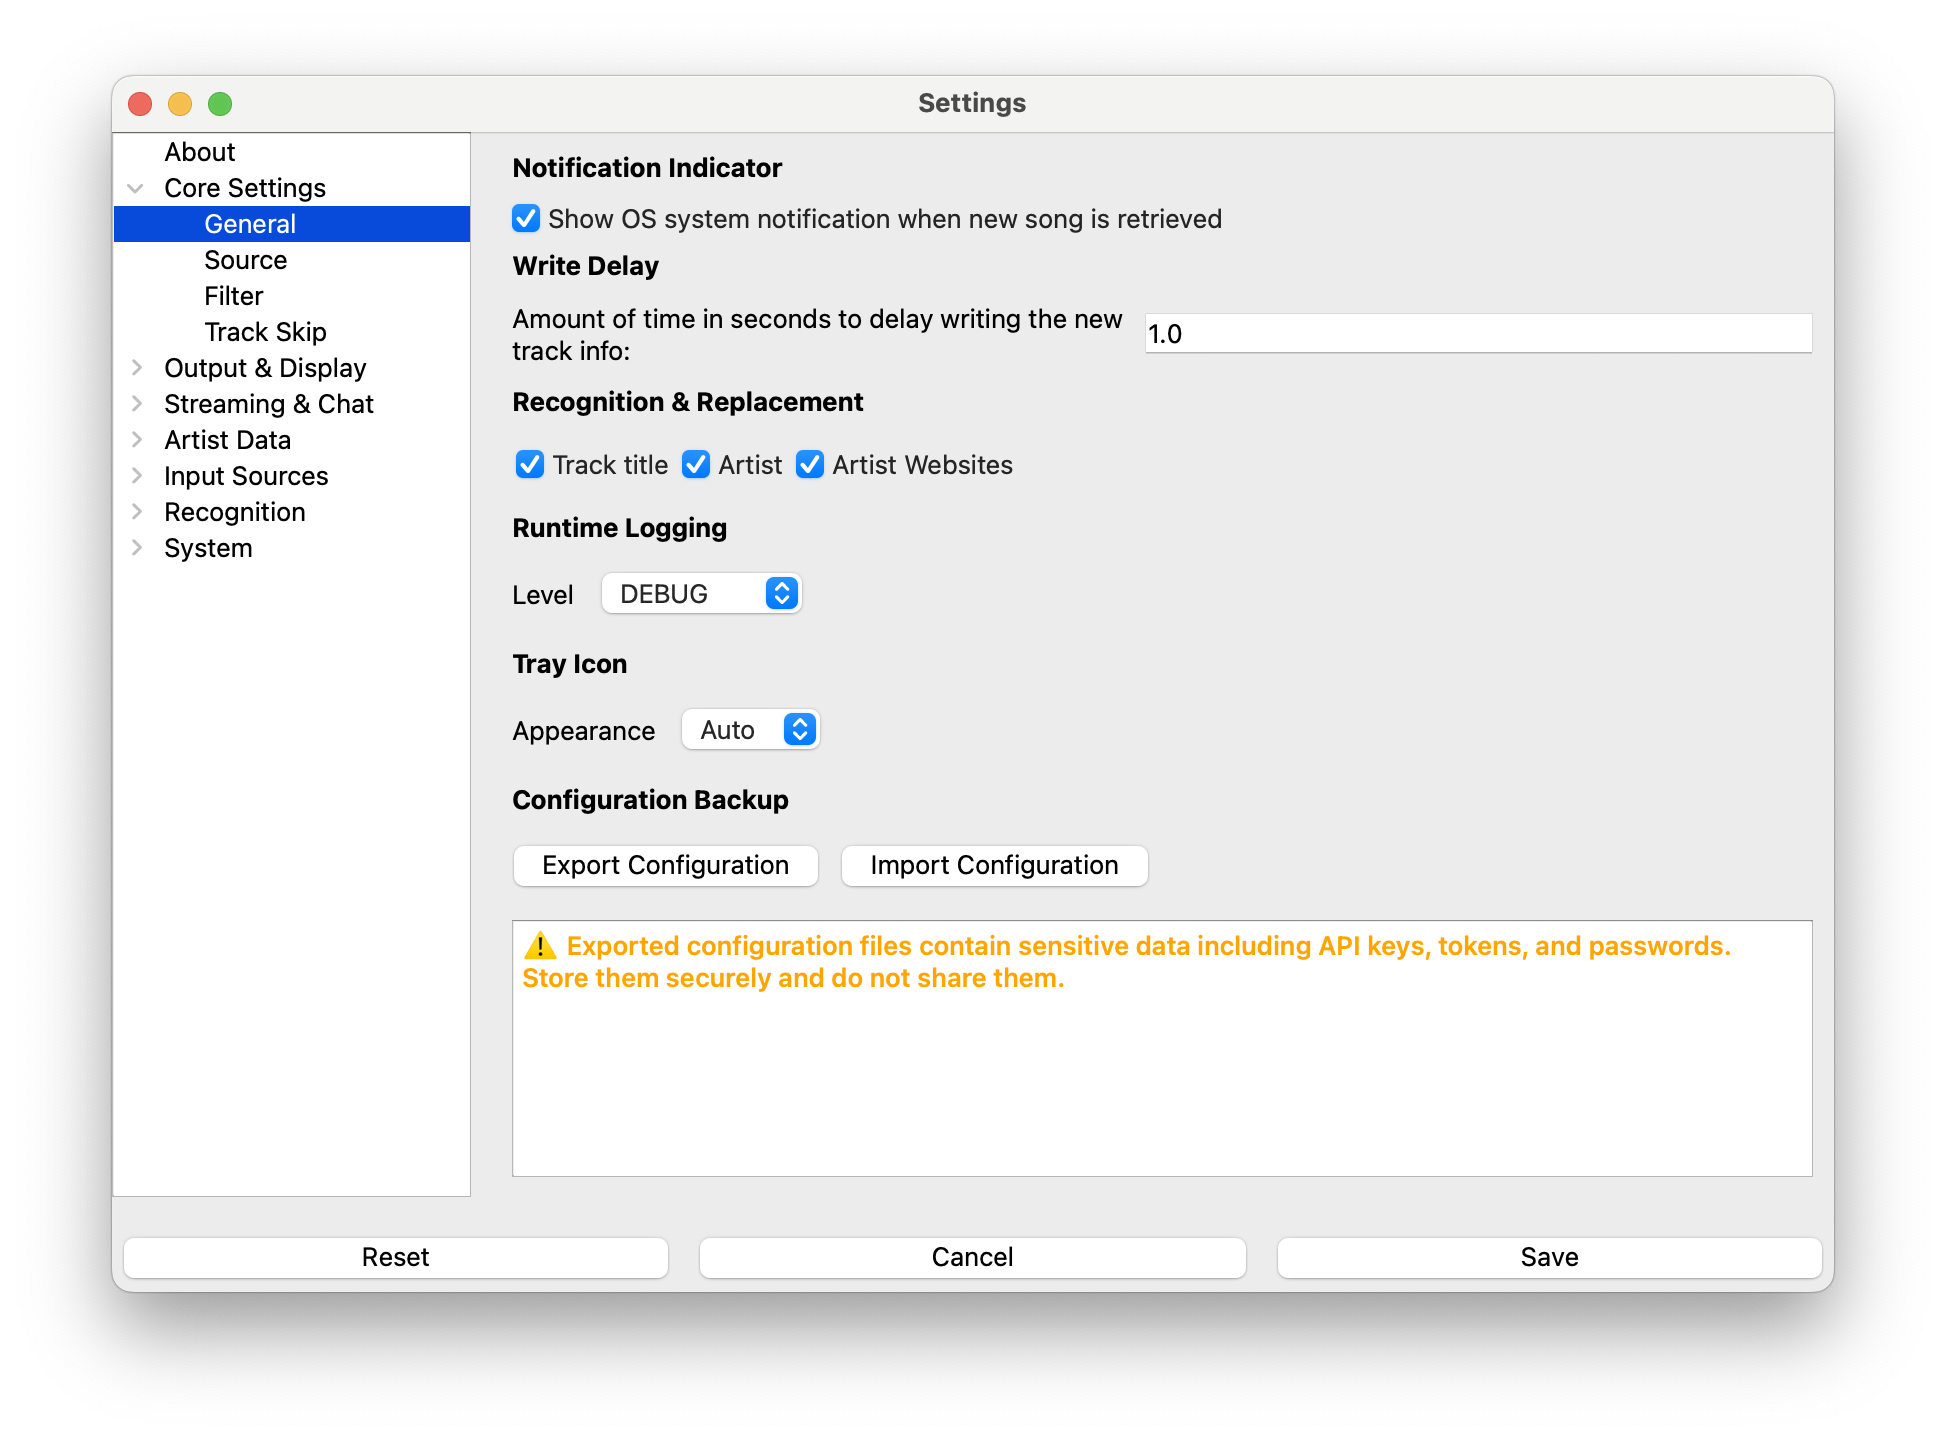
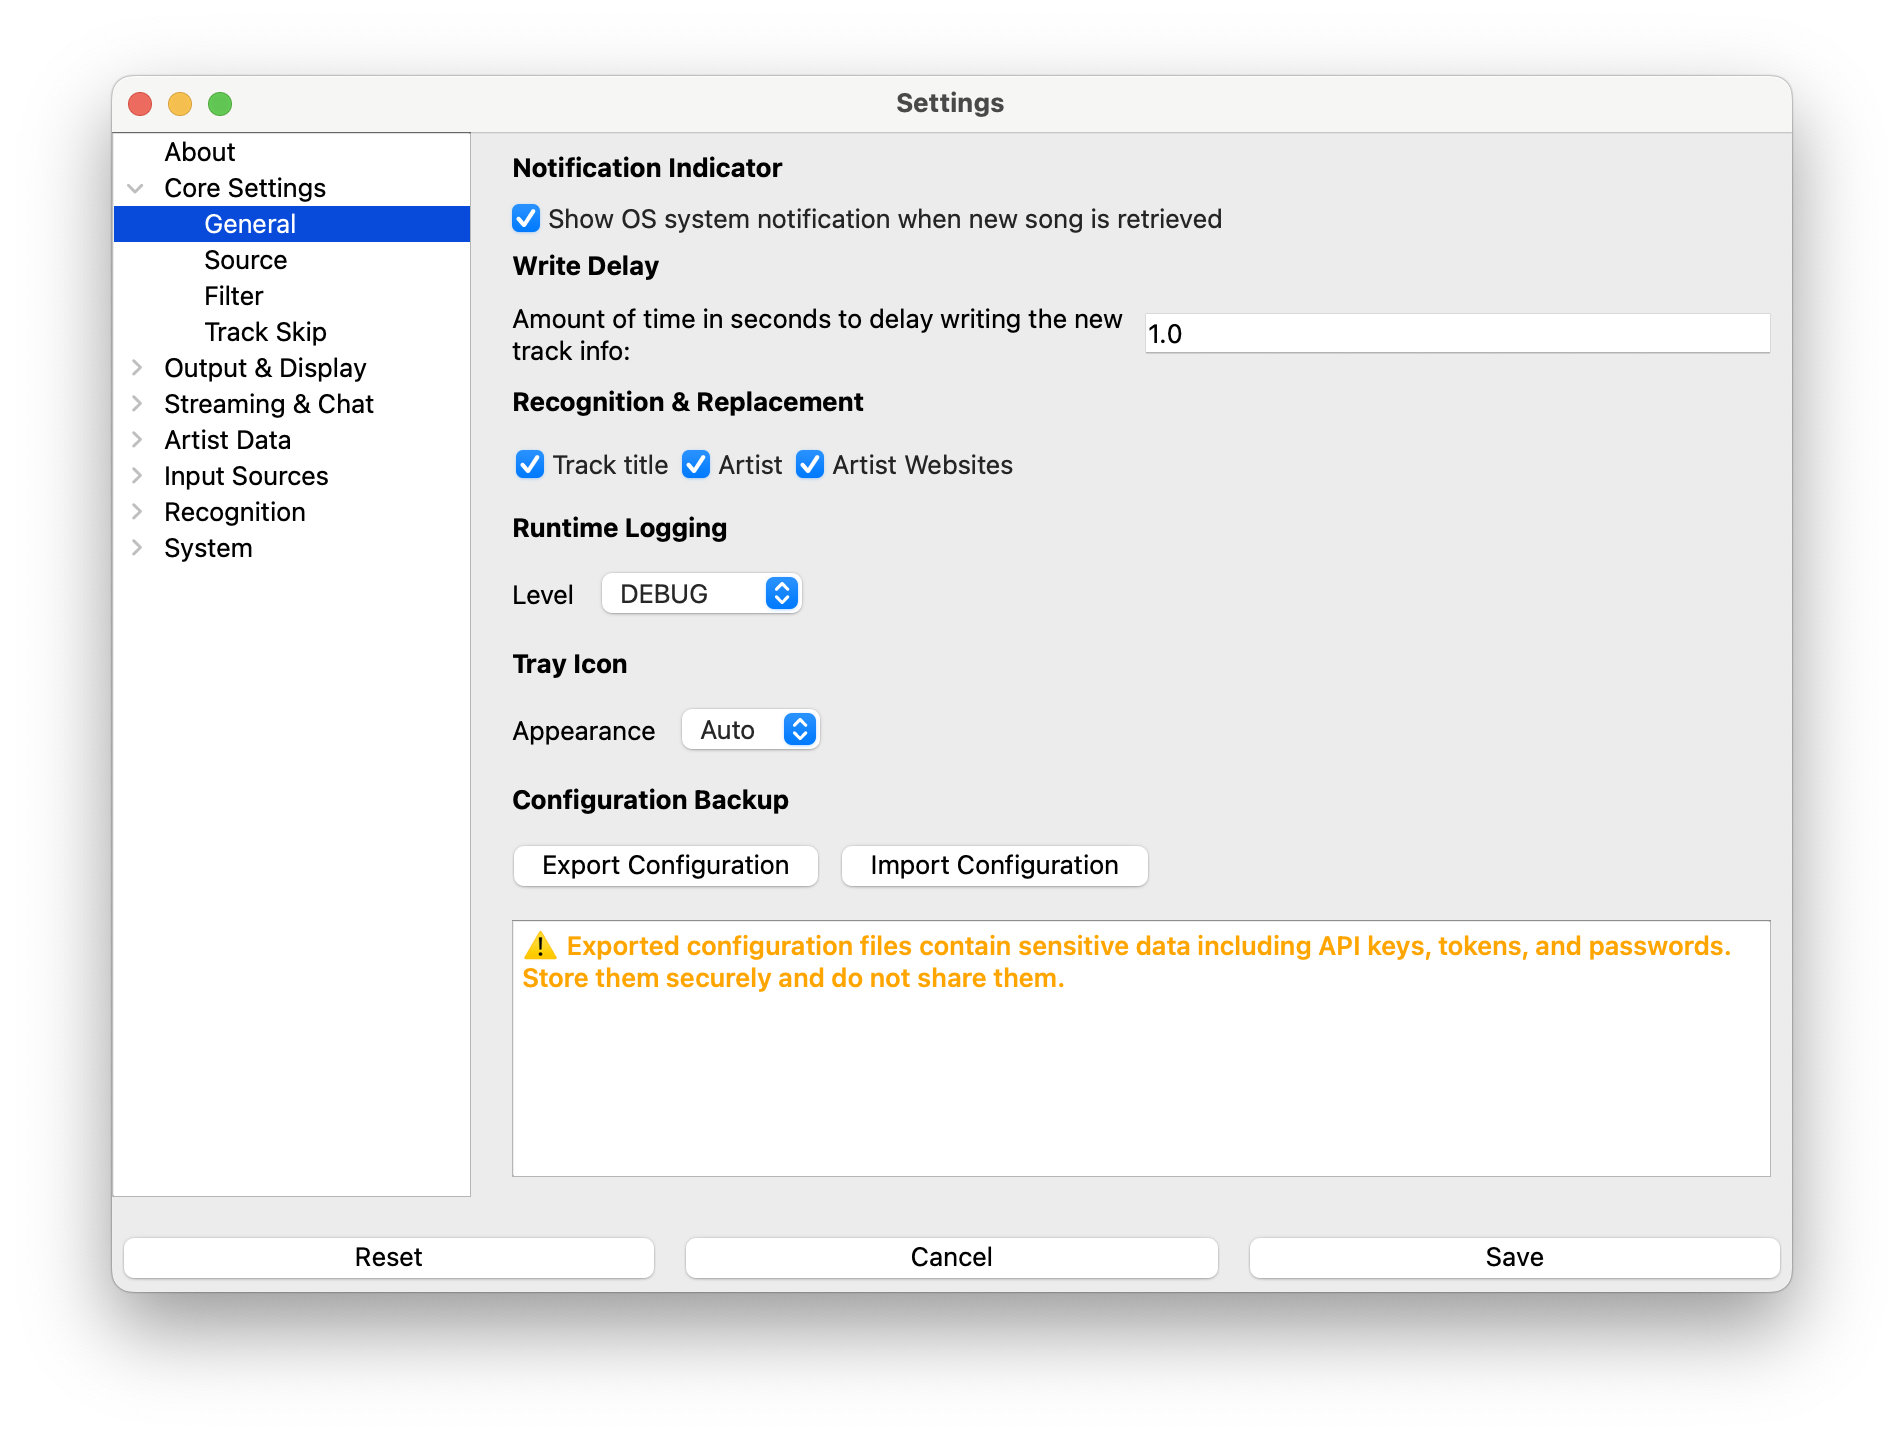
Update docs and CHANGELOG for 5.2.0
- Trim and finalize 5.2.0 CHANGELOG
- Add Two-Computer Setup section to features.md, README, and index.md
- Surface Guess Game, free/no-subscription, and DJ profile prominently
- Update Charts section with genre breakdown, setlists, and Replay details
- Update template count to 42 (7 WebGL/canvas animated effects)
- Add Tray Icon setting docs and screenshot to General settings page
- Update llms.txt with two-computer setup and free/open-source callouts

diff --git a/CHANGELOG.md b/CHANGELOG.md
@@ -1,134 +1,76 @@
 
 # Changelog
 
-## Version 5.2.0 - In Progress
+## Version 5.2.0 - 2026-05-04
 
 * New Features
-  * WNP EarShot input source
-    * New dedicated EarShot source for vinyl, CDJs, and analog mixers using
-      Shazam-based identification via the WNP EarShot companion app
-    * Always-Accept mode runs WNP EarShot as a secondary monitor alongside any
-      DJ software source; WNP EarShot identifications automatically override the
-      active source when a new track is detected, then yield back when the DJ
-      software moves on
-    * Cover art can now be fetched from remote HTTP URLs supplied by the
-      EarShot companion app and embedded in track metadata
-    * WNP enforces a minimum version requirement for the EarShot app and
-      returns an explicit upgrade-required response for outdated clients
-  * OBS Scene Collection exporter
-    * New "Export for OBS..." system tray menu item generates a ready-to-import
-      OBS 28+ scene collection JSON file with pre-configured browser sources
-    * Customize template, dimensions, and canvas position per source before exporting
-    * Warns if OBS is already running so the new collection won't be missed
-    * Saves directly to the OBS scenes directory when found, or falls back to
-      Documents/WhatsNowPlaying/obs_scenes
-    * Includes two Guess Game scenes: "WNP Guess Game" with WebGL-enhanced
-      animated overlays, and "WNP Guess Game Basic" as a CSS-only fallback
-  * WebGL Guess Game overlays
-    * New animated game board with shader background, 3D letter-tile flip
-      reveals, particle bursts, and SVG arc timer
-    * New animated leaderboard with matching shader background, gold/cyan
-      accent colors, medal badges for top 3, and staggered row animations
-  * New WebGL and effects "Now Playing" overlay templates
-    * `ws-webgl-vinyl` — spinning vinyl record with cover art mapped as a
-      WebGL texture; center label and grooved outer area, 800×200
-    * `ws-webgl-spectrum` — 56 animated fake EQ bars with cyan-to-blue
-      gradient and burst effect on track change, 800×150
-    * `ws-webgl-hologram` — cyberpunk scanline panel with glitch slice
-      displacement and character-scramble text reveal, 800×150
-    * `ws-webgl-wave` — dark panel with animated wavy top edge and blue
-      glow line tracing the boundary, 800×150
-    * `ws-webgl-particles` — floating particles (Canvas 2D) over a fully
-      transparent background with burst on track change, 800×150
-    * `ws-webgl-cube` — rotating 3D WebGL cube textured with artist fanart
-      on faces 1–5 and cover art on face 0; falls back gracefully when
-      fewer than 6 fanart images are available, 800×200
-    * `ws-artistfanart-slideshow` — full-screen (1920×1080) CSS slideshow
-      cycling up to 20 artist fanart images with slide transitions every
-      8 seconds, resets on artist change
-    * `ws-frosted-glass` — CSS `backdrop-filter` frosted glass lower-third
-      that blurs actual stream content behind the panel, 800×150
-  * Template preview
-    * Web preview window has a "Use This Template" button that applies the
-      selected template back to the settings field that launched the preview
-    * Template preview is available from Twitch Bot, Kick Bot, Text Output,
-      Discord presence, and Discord channel settings
-    * WebGL templates display an amber warning banner in the preview window
-      when WebGL is unavailable (e.g. virtual machines); the text overlay
-      still renders correctly for end viewers whose GPU supports WebGL
-    * Fanart slideshow preview now cycles through six sample images
+  * WNP EarShot: new input source for vinyl, CDJs, and analog mixers via
+    Shazam-based identification; supports Always-Accept mode as a secondary
+    monitor alongside any DJ software source
+  * OBS Scene Collection exporter: "Export for OBS..." tray menu item generates
+    a ready-to-import OBS scene collection with pre-configured browser sources,
+    including WebGL and CSS-only Guess Game scenes
+  * New animated WebGL game board and leaderboard overlays for Guess Game
+  * Eight new WebGL and effects "Now Playing" overlay templates; see the
+    templates documentation for details
+  * `ws-typing-matrix` rebuilt as a full matrix digital rain canvas animation
+    with falling katakana characters
+  * Template preview now available from Twitch Bot, Kick Bot, Text Output,
+    Discord, and Discord channel settings; includes a "Use This Template" button
 
-* Removed
-  * Tenor GIF support has been removed; use Klipy instead
+* Remote Output
+  * Fixed duplicate Charts submissions when both sender and receiver have
+    Charts enabled
 
-* Twitch
-  * Stream title can now be updated automatically on every track change using
-    a Jinja2 template; works independently of Twitch chat being enabled, with
-    the same template picker and preview workflow used by chat announcements
-  * Broadcaster token scope warnings are now logged at startup when
-    `channel:manage:broadcast` is missing, with clearer HTTP 401/403
-    error messages on title update failures
+* Kick & Twitch
+  * Stream title can now be updated automatically on each track change using
+    a Jinja2 template (requires re-auth if upgrading)
+  * Twitch broadcaster tokens are no longer cleared on shutdown
+  * Fixed authentication when the webserver port wasn't 8899
 
-* Bug Fixes
-  * BPM and key are now read correctly from M4A files that store the same
-    field more than once
-  * Guess Game menu item is now grayed out and auto-disabled when Twitch Bot
-    is not configured, since guesses arrive exclusively via Twitch chat
-  * Filenames using an en dash separator (e.g. `Artist – Title.mp4`) are now
-    correctly split into artist and title when track tags are absent
-  * Kick and Twitch authentication failed if the webserver port wasn't 8899
-  * Twitch broadcaster OAuth tokens are no longer cleared on shutdown, so
-    re-authentication is not required every time WNP restarts
-  * Remote Output + Charts: when both the sending and receiving WNP instances
-    have Charts enabled, tracks were submitted to the charts server twice.
-    The sender now signals to the receiver to skip charts submission.
-  * WebGL overlay templates now degrade gracefully when WebGL is unavailable
-    instead of throwing a JavaScript error
-  * Tracks downloaded from YouTube with `Artist_-_Title` filenames are now
-    correctly split into artist and title even when no YouTube URL is present
-    in the file tags
-  * Windows font scaling is now correct across all settings screens; previously
-    hardcoded macOS font sizes caused oversized text on Windows and Linux
+* MPRIS
+  * Reduced log noise for unavailable D-Bus services and idle state
 
 * UI
-  * Major overhaul of all settings screens for improved layout consistency
-    and readability across platforms
-  * Improved dark mode support across all platforms
-    * Tray icon now automatically switches between black and white variants
-      to remain visible in both light and dark system themes
-    * New Tray Icon Appearance setting (Auto/Light/Dark) in General settings
-      to override auto-detection when OS theme reporting is unreliable
-      (e.g. macOS with wallpaper tinting enabled)
-    * Hardcoded light-mode colors removed from several UI panels so they
-      render correctly under dark themes on Linux and Windows
+  * Major overhaul of all settings screens for improved layout and consistency
+  * Tray icon switches automatically between light and dark variants based on
+    OS color scheme; new Auto/Light/Dark override in General settings
+  * Fixed dark mode rendering on several UI panels on Linux and Windows
 
 * VirtualDJ
-  * Track metadata (genre, BPM, key, label, year, etc.) is now pulled from
-    the local library database for tracks that have been previously cataloged
-    by WNP, including streaming service tracks
-  * Key and BPM from the Scan element are now captured during cataloging when
-    not present in the track tags
-  * BPM is now correctly converted from VirtualDJ's internal seconds-per-beat
-    format to beats-per-minute
+  * Track metadata is now pulled from the local library database for previously
+    cataloged tracks
+  * Key and BPM from the Scan element are captured when not present in track tags
+  * BPM is now correctly converted from VirtualDJ's internal format
 
 * Platform
-  * macOS binaries are now code-signed and notarized, eliminating Gatekeeper
-    warnings on first launch
-  * Windows binaries are now signed with Azure Trusted Signing, eliminating
-    SmartScreen warnings on first launch
+  * macOS binaries are now code-signed and notarized
+  * Windows binaries are now signed with Azure Trusted Signing
+  * Fixed font scaling on Windows and Linux settings screens
+
+* Removed
+  * Tenor GIF support; use Klipy instead
+
+* Bug Fixes
+  * Track titles with duplicate parenthetical suffixes (e.g.
+    `Song (Radio Edit) (radio edit)`) are now collapsed to a single suffix
+  * Fixed SQL injection, XSS, and unpinned CI action security issues
+  * BPM and key now read correctly from M4A files with duplicate fields
+  * Guess Game menu item is grayed out when Twitch Bot is not configured
+  * Filenames with en dash separators (e.g. `Artist – Title.mp4`) now split
+    correctly when track tags are absent
+  * YouTube `Artist_-_Title` filenames now split correctly even without a
+    YouTube URL in the file tags
 
 * Developer Stuff
   * Dependency updates
   * **Python 3.10 is no longer supported**; minimum version is now Python 3.11
   * **Python 3.14 is now supported**
-  * Replace vendored musicbrainzngs library with wnpmb package, removing ~3,500
-    lines of XML-based MusicBrainz client code in favour of a JSON/httpx async
-    client with improved release selection accuracy and HTTP/2 support;
-    wnpmb is installed as a wheel rather than vendored, and artist name
-    normalization utilities are now provided by wnpmb
-  * Extracted common Guess Game WebGL background shader to
-    `guessgame-webgl-bg.js`, shared by both the game board and leaderboard
-    overlays
+  * Replaced vendored musicbrainzngs with wnpmb: ~3,500 lines of XML-based
+    client code replaced with a JSON async client with improved release
+    selection, HTTP/2 support, and artist name normalization; fallback
+    title-strip matches return artist data only, not a recording ID from the
+    stripped title
 
 ## Version 5.1.0 - 2026-03-26
 

diff --git a/docs/settings/index.md b/docs/settings/index.md
@@ -16,40 +16,49 @@
   new track info once it's retrieved. If not populated, it will default
   to 0 seconds.
 
-* A setting of zero will update the track info on-screen immediately
-   as a new track is detected. If you're blending or crossfading, this
-   may be too soon; viewers would see the new track title before they
-   can hear it. A delay of 5–10 seconds gives your mix time to settle
-   before the display updates. Artist Extras also uses this window to
-   download images, so a longer delay means more content is ready when
-   the track appears.
+  A setting of zero will update the track info on-screen immediately
+  as a new track is detected. If you're blending or crossfading, this
+  may be too soon; viewers would see the new track title before they
+  can hear it. A delay of 5–10 seconds gives your mix time to settle
+  before the display updates. Artist Extras also uses this window to
+  download images, so a longer delay means more content is ready when
+  the track appears.
 
 * **Recognition Replacement** - By default, if a Music Recognition
   service is enabled, it will only supplement missing information.
   These options forcibly replace title and artist from any enabled
   recognition services.
 
-* **Logging Level** - By default, **What's Now Playing** will write
+* **Runtime Logging** - By default, **What's Now Playing** will write
   debug logs into your `Documents/WhatsNowPlaying/logs` directory. This option
   lets you control the level of logging.
+
+* **Tray Icon** - Controls whether the tray icon uses a light or dark variant.
+
+  * **Auto** (default) — switches automatically based on the OS color scheme.
+  * **Light** — always use the light (black) icon regardless of OS theme.
+  * **Dark** — always use the dark (white) icon regardless of OS theme.
+
+  Use Light or Dark to override Auto if your OS theme reporting is unreliable
+  (e.g. macOS with wallpaper tinting enabled).
 
 * **Configuration Backup** - Export and import your complete
   configuration to make version upgrades easier.
 
   * **Export Configuration** - Saves all your settings to a JSON file.
-   This includes API keys, passwords, file paths, and all plugin
-   configurations. ⚠️ **Security Warning**: The exported file
-   contains sensitive data including API keys and passwords. Store it
-   securely and do not share it.
+    This includes API keys, passwords, file paths, and all plugin
+    configurations. ⚠️ **Security Warning**: The exported file
+    contains sensitive data including API keys and passwords. Store it
+    securely and do not share it.
   * **Import Configuration** - Restores settings from a previously
-   exported JSON file. This will overwrite your current settings.
-   Cache and runtime settings are automatically excluded and rebuilt.
-   File paths that do not exist on the current machine are skipped
-   automatically; a `_import_warnings.txt` file is generated next to the
-   imported file listing any paths that need to be reconfigured manually.
+    exported JSON file. This will overwrite your current settings.
+    Cache and runtime settings are automatically excluded and rebuilt.
+    File paths that do not exist on the current machine are skipped
+    automatically; a `_import_warnings.txt` file is generated next to the
+    imported file listing any paths that need to be reconfigured manually.
   * **Portability**: The exporting machine's home directory is recorded in
-   the file so paths are automatically remapped when importing on a different
-   machine or operating system.
+    the file so paths are automatically remapped when importing on a different
+    machine or operating system.
   * **Use Cases**:
     * Back up settings before major version upgrades
     * Transfer settings between installations

diff --git a/docs/features.md b/docs/features.md
@@ -14,6 +14,22 @@ Hardware-based sources (Denon StageLinQ) are detected from the network. The
 detected source is shown in **Core Settings → Source** and can be changed at
 any time.
 
+## Two-Computer Setup
+
+Many DJs stream from a dedicated PC while running their DJ software on a
+separate laptop. WNP is built for this. The **Remote Output** feature
+automatically sends live track data from the DJ machine to the streaming
+machine over the local network.
+
+* No IP addresses to configure; uses Bonjour/Zeroconf auto-discovery
+* No port forwarding needed; works on any home or venue network
+* Works across platforms (DJ laptop on macOS, streaming PC on Windows, or
+  any combination)
+* Install WNP on both machines, point the streaming machine at the DJ
+  machine, and it just works
+
+See [Remote Output](input/remote.md) for setup details.
+
 ## Input Sources
 
 WNP reads track data directly from DJ software and media players. No manual
@@ -63,8 +79,8 @@ updates required.
 ### [Remote WNP Instance](input/remote.md)
 
 * One WNP instance can receive track data from another WNP instance over the
-  network, allowing a central streaming PC to consolidate output from one or
-  more DJ machines. Supports auto-discovery via Bonjour/Zeroconf.
+  network — the standard solution for a two-computer DJ/streaming setup.
+  Supports auto-discovery via Bonjour/Zeroconf.
 
 ## Track Recognition
 
@@ -112,7 +128,7 @@ overlays using the Jinja2 template engine. Supports:
 
 * Real-time updates via WebSockets
 * Full HTML, CSS, and JavaScript customization
-* 15 bundled OBS browser overlay templates, including 6 WebGL animated effects
+* 42 bundled OBS browser overlay templates, including 7 animated WebGL/canvas effects
 * Access to all track metadata as template variables
 * Remote control APIs
 
@@ -136,6 +152,7 @@ variable and exportable.
 * Chat commands for viewers: `!track`, `!artist`, `!album`, and more
 * Contextual help via `!track help`
 * Channel point redemption support
+* Automatic stream title updates on each track change using a Jinja2 template
 * Per-command permission controls (broadcaster, moderator, subscriber, VIP)
 * Cooldown timers per command and per user
 
@@ -206,14 +223,20 @@ MP3, FLAC, M4A, and AIFF formats.
 ## Charts and Analytics
 
 **[What's Now Playing Charts](https://whatsnowplaying.com/)** is an optional
-community service that tracks what DJs are playing across streams:
+community service that tracks what DJs are playing across streams. It is free,
+requires no account to start, and is built into WNP with no configuration needed.
 
 * WNP automatically submits track data using an anonymous API key generated
   on first run — no account required to contribute
-* Create an account (via Twitch or Kick login) to unlock a personal DJ profile
-* View your play history, top tracks, and session stats
+* Create an account (via Twitch or Kick login) to unlock a public DJ profile at
+  `whatsnowplaying.com/profile/(your-username)` showing:
+  * Play statistics: total plays, unique songs, and unique artists
+  * Top 10 tracks and artists with play counts
+  * Genre profile: auto-generated breakdown of your sets by genre and subgenre
+  * DJ setlists from recent streams, downloadable in multiple formats
+  * Recent track feed with artist, album, and timestamp
+  * Replay: year-in-review analytics for your streams
 * Community charts showing top tracks and artists across all streamers
-* Time-filtered views (24h, 7d, 30d, all time) by platform and genre
 * Online Guess Game leaderboard integration
 
 ## Platform Support

diff --git a/README.md b/README.md
@@ -23,6 +23,14 @@ MPRIS2-compatible players (Linux)
 **Via EarShot:** Vinyl decks, standalone CDJs, Rekordbox, and analog mixers —
 using Shazam-based audio identification on macOS, iOS, and watchOS
 
+## Two-Computer Setup
+
+WNP supports the common scenario where DJ software runs on one machine and
+OBS/streaming runs on another. The Remote Output feature uses Bonjour/Zeroconf
+auto-discovery with no IP configuration needed. See the
+[Remote Output docs](https://whatsnowplaying.github.io/whats-now-playing/latest/input/remote/)
+for details.
+
 ## Download
 
 [Get the latest release](https://github.com/whatsnowplaying/whats-now-playing/releases)
@@ -31,6 +39,7 @@ in binary or source forms.
 ## Quick Links
 
 - **[Quickstart Guide](http://whatsnowplaying.github.io/quickstart/)** - Get up and running
+- **[Feature Overview](http://whatsnowplaying.github.io/features/)** - Everything WNP can do
 - **[Gallery](http://whatsnowplaying.github.io/gallery/)** - See it in action
 - **[Charts](https://whatsnowplaying.com/signup)** — track your play history, view listening stats,
   and unlock the online Guess Game board

diff --git a/docs/index.md b/docs/index.md
@@ -11,7 +11,14 @@ Focus on your music while your audience stays informed about every track you pla
 
 Supports Serato DJ, Traktor, Virtual DJ, Denon DJ, djay Pro, DJUCED, and
 [many more](features.md). Outputs to OBS, Twitch, Kick, Discord, and custom
-HTML overlays. Free and open source for Windows, macOS, and Linux.
+HTML overlays. Free and open source for Windows, macOS, and Linux with no
+subscription or paid tiers. Supports two-computer DJ/streaming setups via
+automatic network discovery with no manual IP configuration needed.
+
+Includes a Twitch chat-based [Guess Game](output/guessgame.md) where viewers
+try to identify tracks in real time, and automatically builds a public DJ
+profile at whatsnowplaying.com with genre breakdowns, top tracks, setlists,
+and community charts.
 
 See the full [Feature Overview](features.md) for everything WNP can do.
 